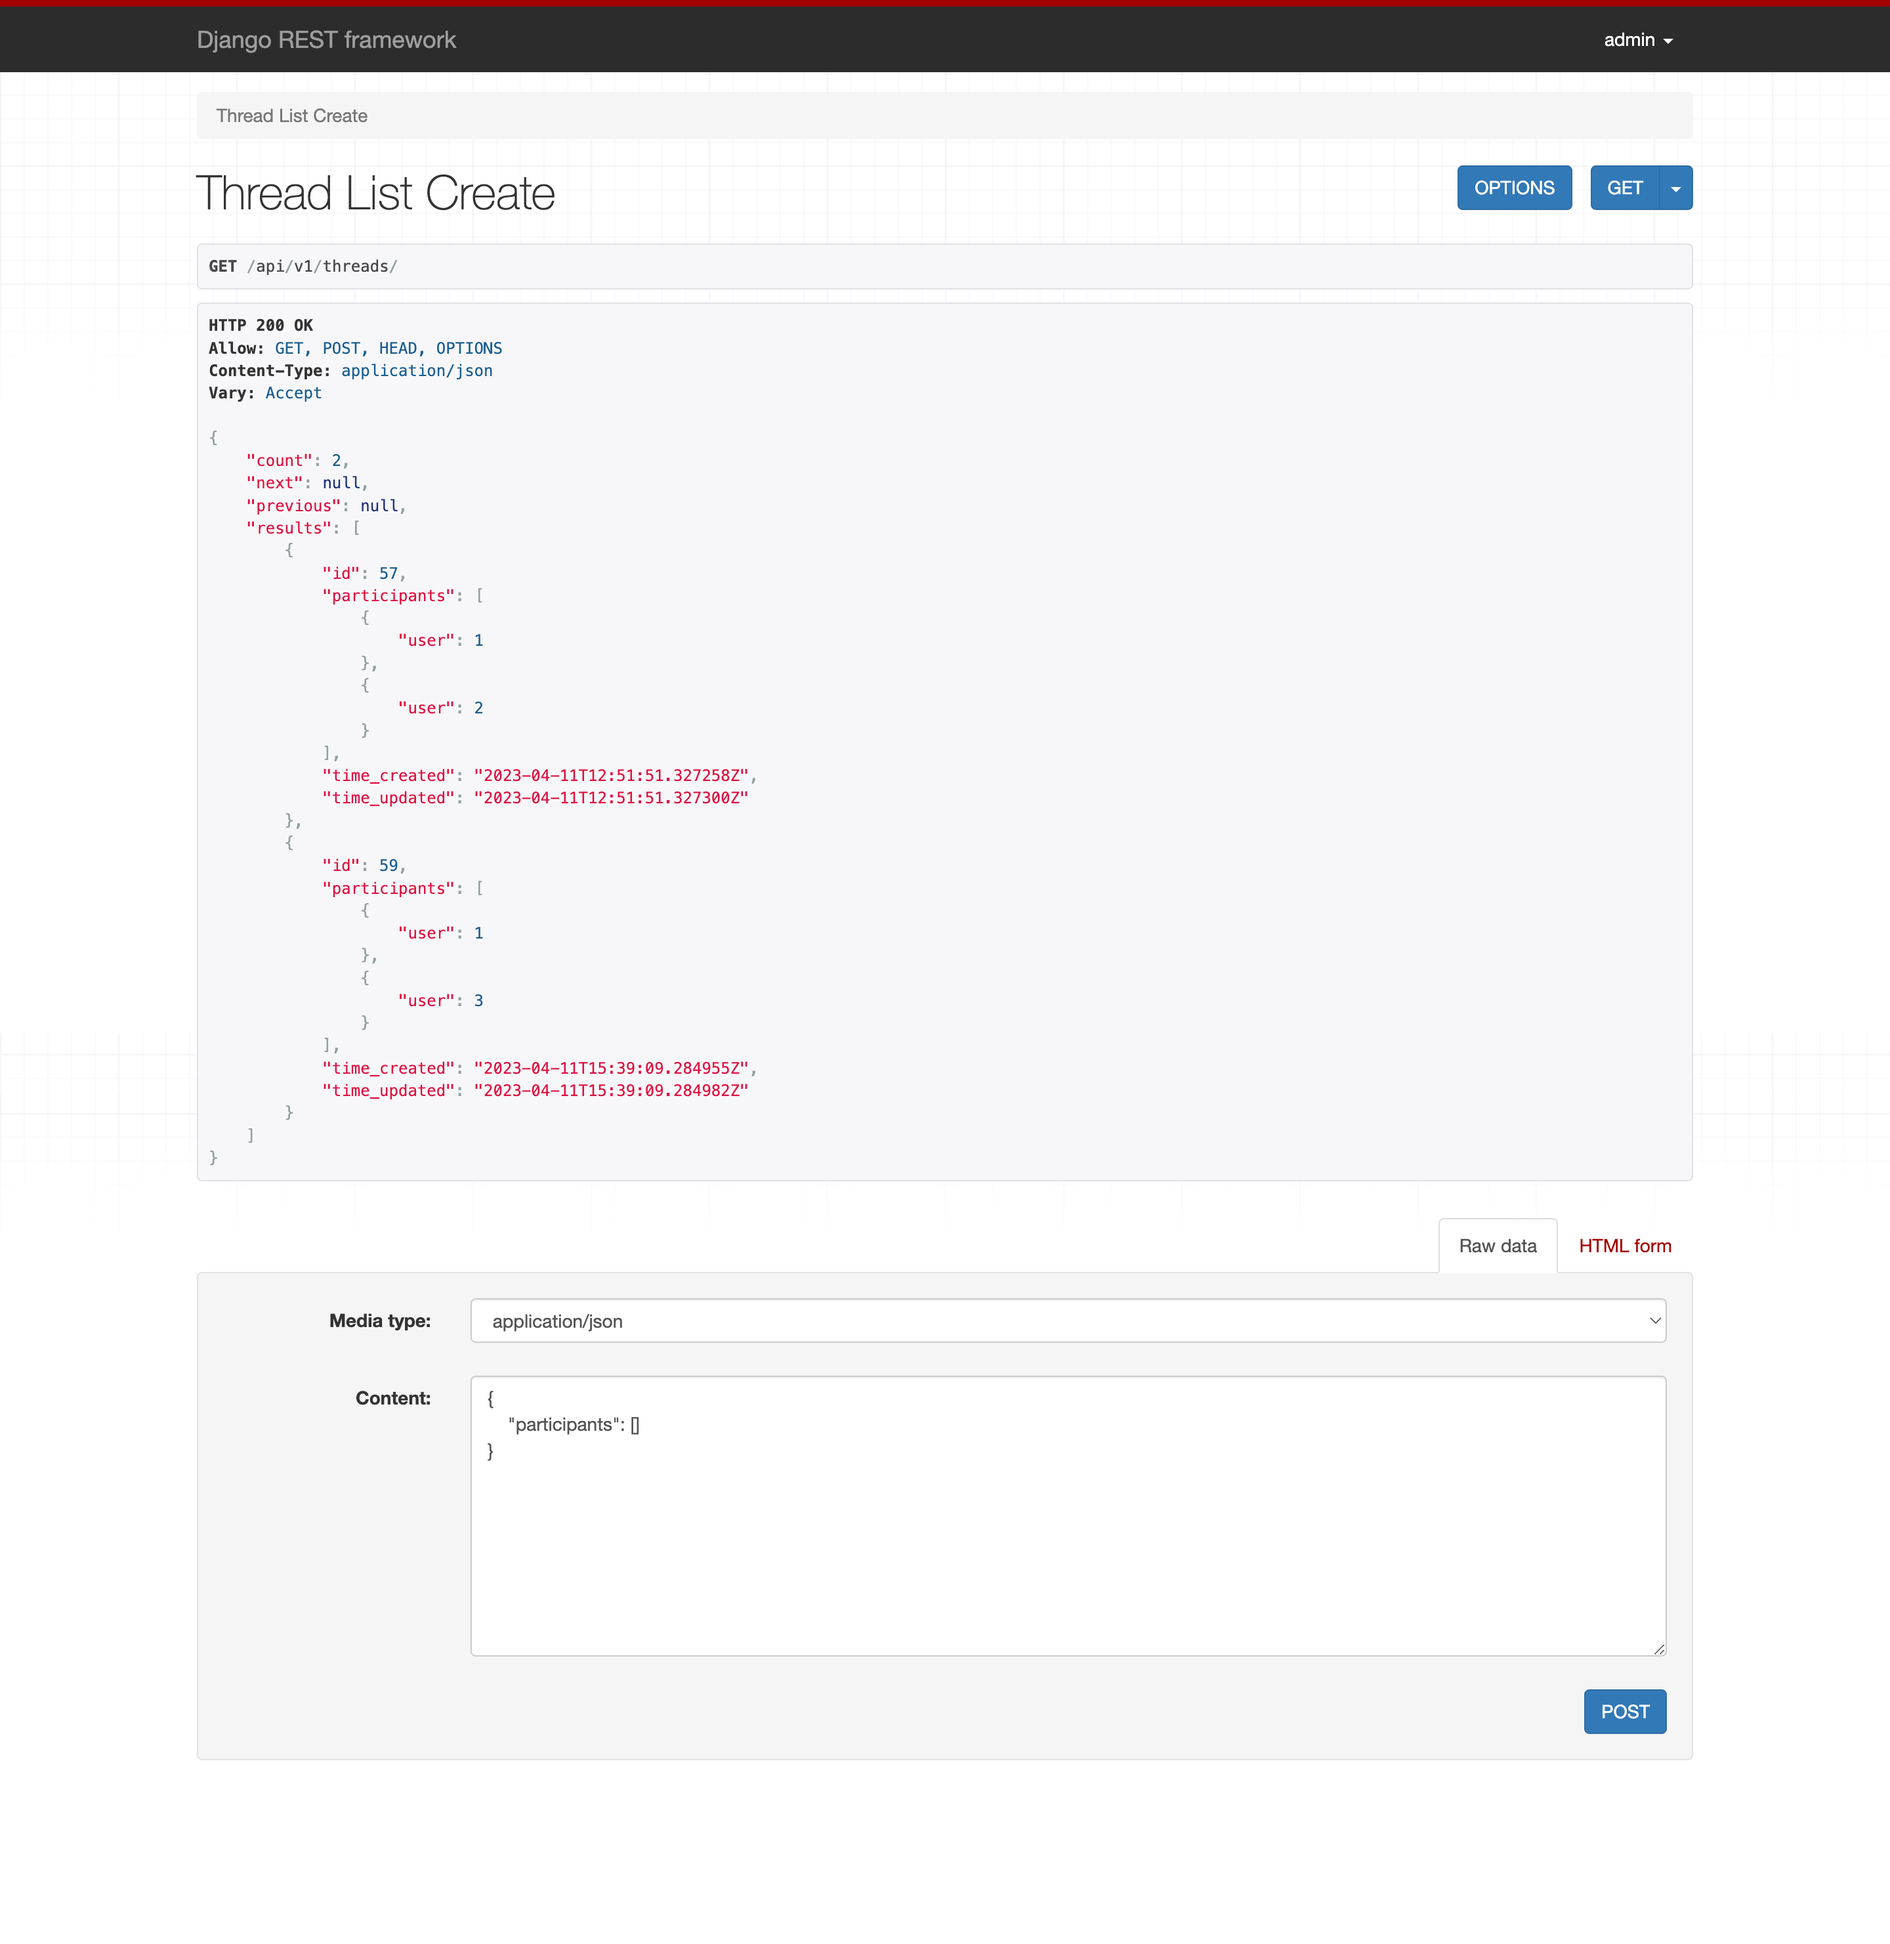
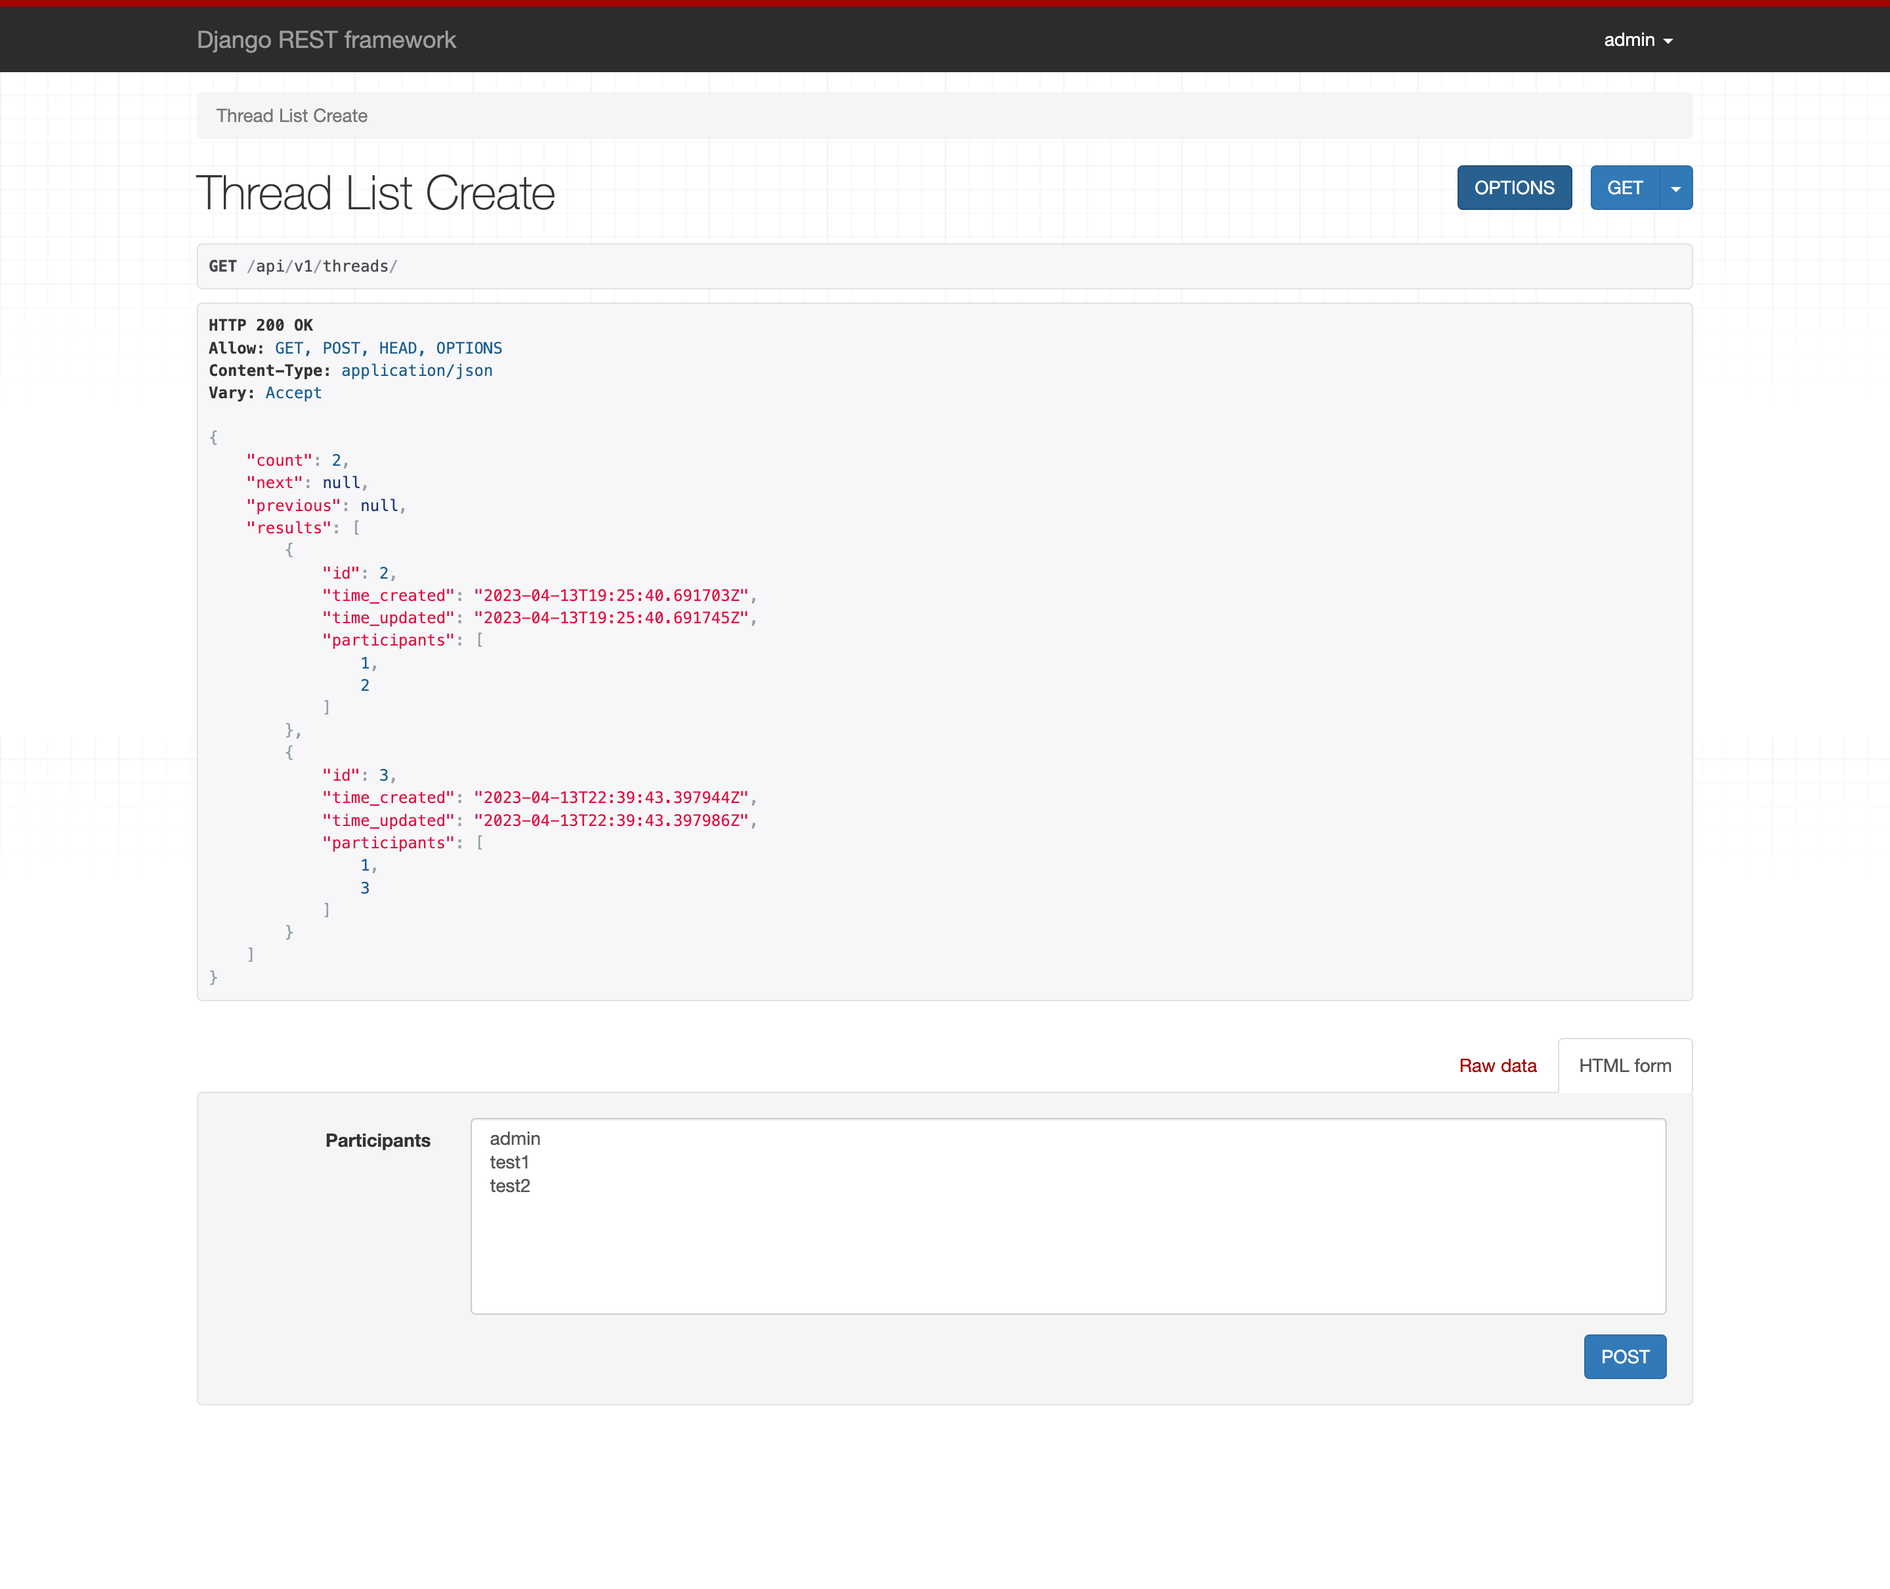
first commit

diff --git a/chat/app/views.py b/chat/app/views.py
@@ -4,12 +4,15 @@ from rest_framework.views import APIView
 from rest_framework.permissions import IsAuthenticated
 from .permissions import IsOwner
 from .models import Thread, Message
-from .services import use_limit_participants, valid_thread_exists, get_relevant_serializer
+from .services import (
+    use_limit_participants,
+    valid_thread_exists,
+    get_relevant_serializer
+)
 from .serializers import (
     MessageSerializer,
     ThreadSerializer,
     MessageUpdateSerializer,
-    ThreadCreateSerializer,
 )
 
 
@@ -19,7 +22,7 @@ class ThreadListCreateView(generics.ListCreateAPIView):
     permission_classes = (IsAuthenticated,)
 
     def create(self, request, *args, **kwargs):
-        """Вариант при котором нужно указывать всех пользователей в запросе"""
+        """Вариант при котором нужно передавать всех учасников в запросе"""
         serializer = self.get_serializer(data=request.data)
         serializer.is_valid(raise_exception=True)
         participants = serializer.validated_data.get("participants")

diff --git a/chat/app/serializers.py b/chat/app/serializers.py
@@ -1,12 +1,6 @@
 from rest_framework import serializers
 from .models import Thread, Message
-from django.contrib.auth import get_user_model
-
-User = get_user_model()
-
-
-class ThreadCreateSerializer(serializers.Serializer):
-    participants = serializers.SlugRelatedField(queryset=User.objects.all(), slug_field='username')
+# from django.contrib.auth import get_user_model
 
 
 class ThreadSerializer(serializers.ModelSerializer):
@@ -34,3 +28,6 @@ class MessageUpdateSerializer(serializers.ModelSerializer):
     class Meta:
         model = Message
         fields = ['is_read']
+
+# class ThreadCreateSerializer(serializers.Serializer):
+#     participants = serializers.SlugRelatedField(queryset=get_user_model().objects.all(), slug_field='username')

diff --git a/README.md b/README.md
@@ -35,6 +35,7 @@ database – SQLite<br>
 ![Image alt](https://github.com/Lioniys/test_task_iSi_Technology/raw/main/screen/5.png)
 ![Image alt](https://github.com/Lioniys/test_task_iSi_Technology/raw/main/screen/7.png)
 ![Image alt](https://github.com/Lioniys/test_task_iSi_Technology/raw/main/screen/6.png)
+![Image alt](https://github.com/Lioniys/test_task_iSi_Technology/raw/main/screen/0.png)
 </details>
 <details><summary>⏱ Quick start:</summary>
 
